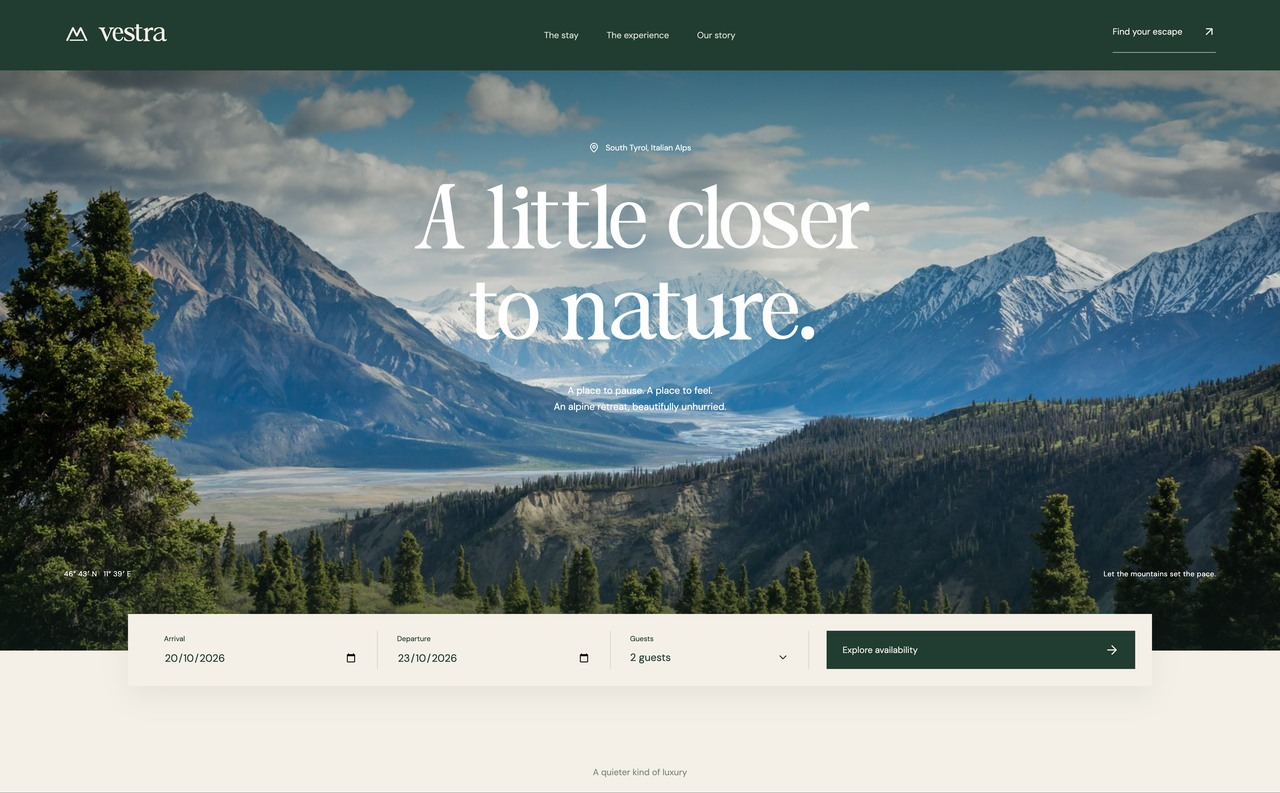
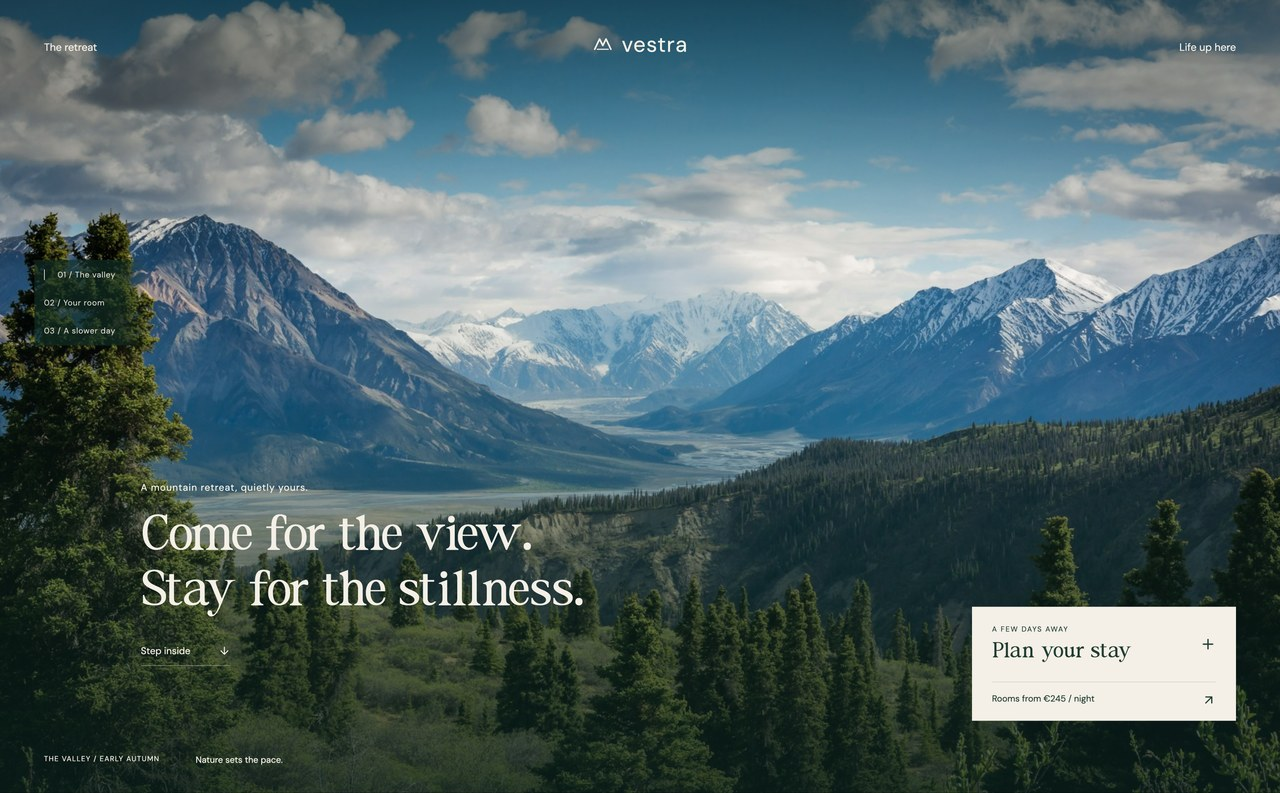
Improve tablet wordmark fit and mountain chapter legibility

diff --git a/src/projects/vestra/landscape.css b/src/projects/vestra/landscape.css
@@ -76,12 +76,22 @@
   left: 55px;
   display: grid;
   gap: 22px;
+  isolation: isolate;
+}
+.vs-scene-index::before {
+  content: "";
+  position: absolute;
+  inset: -12px -40px -12px -12px;
+  z-index: -1;
+  background: linear-gradient(90deg, #102e24a6 75%, transparent);
+  pointer-events: none;
 }
 .vs-scene-index a {
   font-size: 10px;
   letter-spacing: 0.05em;
   text-decoration: none;
   opacity: 0.85;
+  text-shadow: 0 1px 3px #071b18;
 }
 .vs-scene-index a:first-child {
   border-left: 1px solid var(--vs-cream);

diff --git a/src/projects/kanso/styles/responsive-shop.css b/src/projects/kanso/styles/responsive-shop.css
@@ -6,6 +6,9 @@
   .kanso-shelf {
     gap: 29px 28px;
   }
+  .kanso-shelf-wordmark .brand-logo > span {
+    font-size: 60px;
+  }
   .kanso-object-caption h2 {
     font-size: 20px;
   }
